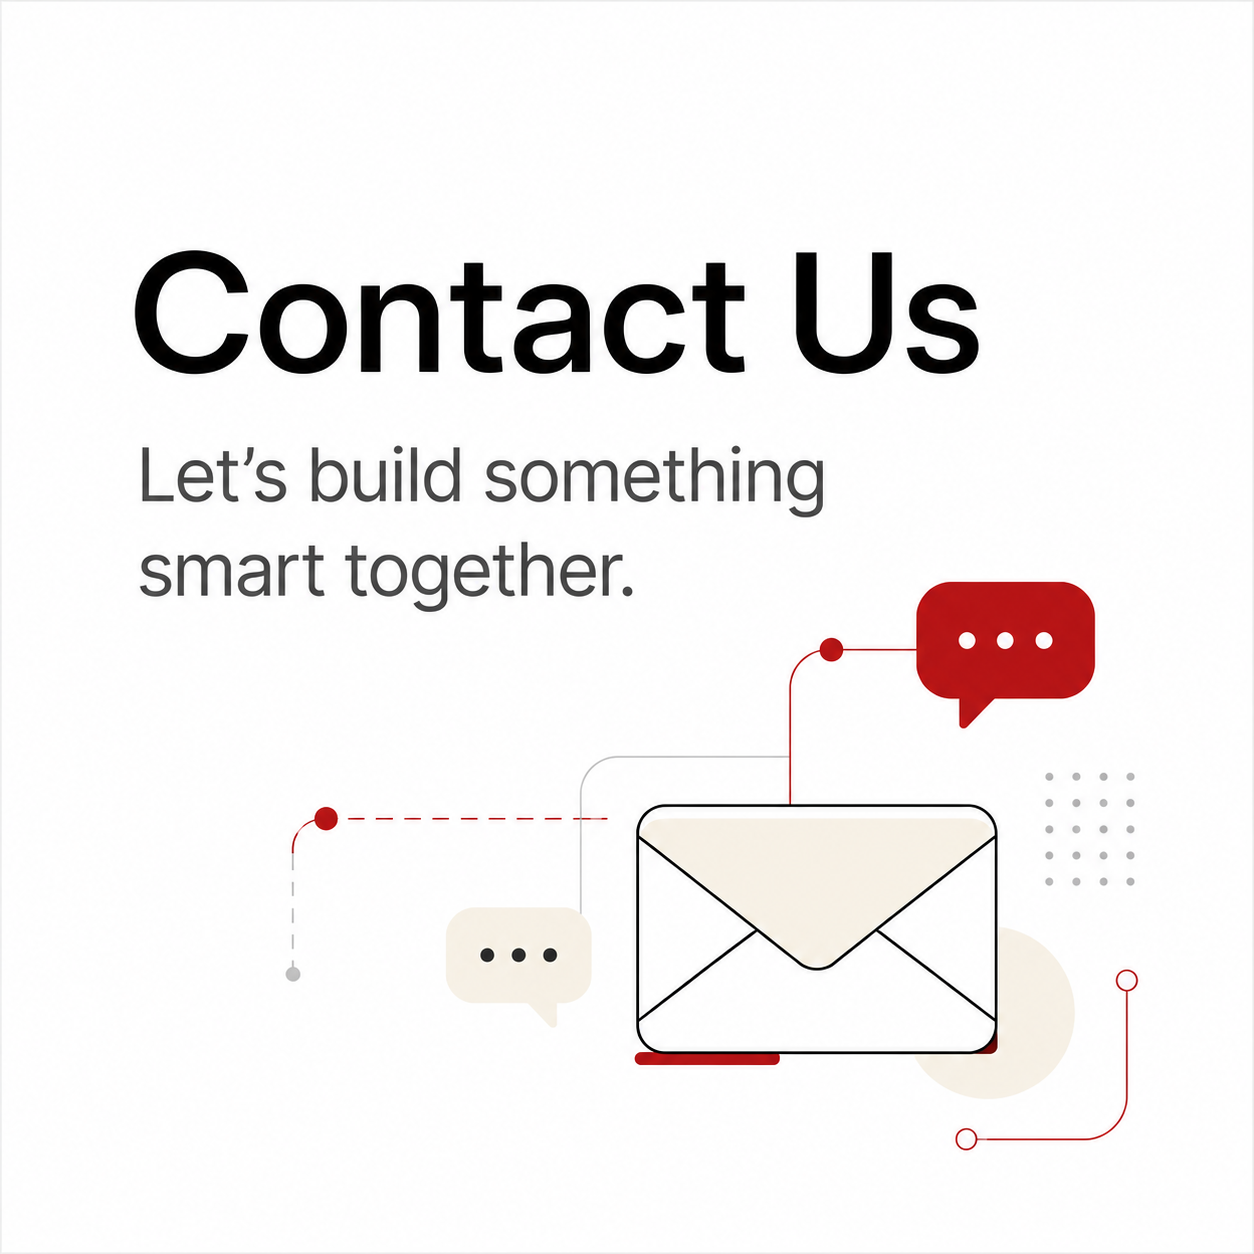
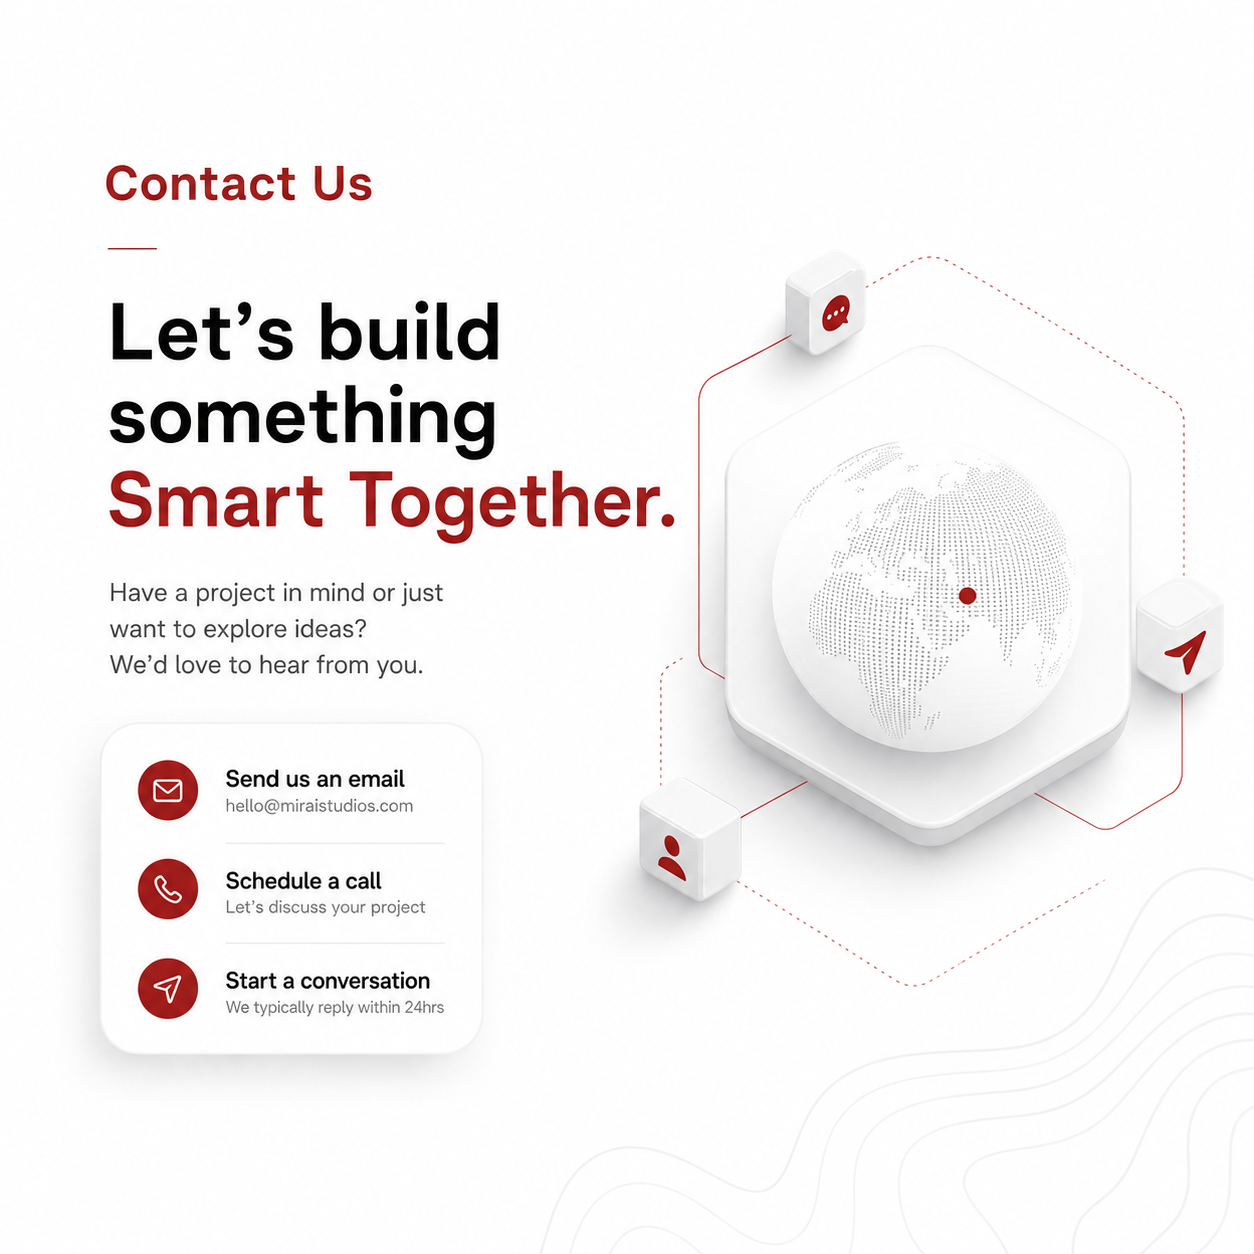
Polish homepage UI: hero fade, products mobile, and contact art.
Smooth the hero voxel seam, tighten services/products/testimonials presentation, rename the digital-twin caption, and refresh the contact illustration.

diff --git a/src/components/sections/Projects.tsx b/src/components/sections/Projects.tsx
@@ -67,11 +67,12 @@ function ProductFeatureCarousel({ products }: { products: CaseStudy[] }) {
 
   return (
     <div
-      className="grid items-center gap-8 lg:grid-cols-[minmax(0,0.9fr)_minmax(0,1.35fr)] lg:gap-10 xl:gap-14"
+      className="grid items-stretch gap-5 sm:gap-6 lg:grid-cols-[auto_minmax(0,1fr)] lg:items-center lg:gap-8 xl:gap-10"
       onMouseEnter={() => setPaused(true)}
       onMouseLeave={() => setPaused(false)}
     >
-      <div className="flex w-full max-w-md flex-col justify-center gap-3">
+      {/* Mobile: horizontal chip row · Desktop: compact vertical list */}
+      <div className="-mx-1 flex gap-2 overflow-x-auto px-1 pb-1 [scrollbar-width:none] lg:mx-0 lg:flex-col lg:overflow-visible lg:pb-0 [&::-webkit-scrollbar]:hidden">
         {products.map((product, index) => {
           const isActive = index === currentIndex;
           const Icon = PRODUCT_ICONS[product.slug] ?? Sparkles;
@@ -83,7 +84,7 @@ function ProductFeatureCarousel({ products }: { products: CaseStudy[] }) {
               onClick={() => goTo(index)}
               aria-pressed={isActive}
               className={cn(
-                "relative flex w-fit items-center gap-3 rounded-full border px-5 py-3.5 text-left transition-colors duration-300 sm:gap-4 sm:px-7 sm:py-4",
+                "relative flex shrink-0 items-center gap-2.5 rounded-full border px-4 py-3 text-left transition-colors duration-300 sm:gap-3 sm:px-5 sm:py-3.5",
                 isActive
                   ? "border-white bg-white text-accent shadow-soft"
                   : "border-white/20 bg-transparent text-white/65 hover:border-white/40 hover:text-white",
@@ -93,13 +94,15 @@ function ProductFeatureCarousel({ products }: { products: CaseStudy[] }) {
                 className={cn("h-4 w-4 shrink-0", isActive ? "text-accent" : "text-white/45")}
                 aria-hidden
               />
-              <span className="text-sm font-medium tracking-snug sm:text-base">{productLabel(product)}</span>
+              <span className="whitespace-nowrap text-sm font-medium tracking-snug sm:text-base">
+                {productLabel(product)}
+              </span>
             </button>
           );
         })}
       </div>
 
-      <div className="relative mx-auto aspect-[16/11] w-full max-w-3xl sm:aspect-[16/10]">
+      <div className="relative mx-auto aspect-[4/5] w-full max-w-none sm:aspect-[16/11] lg:aspect-[16/10] lg:max-w-none">
         {products.map((product, index) => {
           const status = getCardStatus(index);
           const isActive = status === "active";
@@ -111,15 +114,15 @@ function ProductFeatureCarousel({ products }: { products: CaseStudy[] }) {
               key={product.slug}
               initial={false}
               animate={{
-                x: isActive ? 0 : isPrev ? -72 : isNext ? 72 : 0,
-                scale: isActive ? 1 : isPrev || isNext ? 0.88 : 0.72,
-                opacity: isActive ? 1 : isPrev || isNext ? 0.45 : 0,
-                rotate: isPrev ? -2.5 : isNext ? 2.5 : 0,
+                x: isActive ? 0 : isPrev ? -40 : isNext ? 40 : 0,
+                scale: isActive ? 1 : isPrev || isNext ? 0.92 : 0.82,
+                opacity: isActive ? 1 : isPrev || isNext ? 0.35 : 0,
+                rotate: isPrev ? -1.5 : isNext ? 1.5 : 0,
                 zIndex: isActive ? 20 : isPrev || isNext ? 10 : 0,
                 pointerEvents: isActive ? "auto" : "none",
               }}
               transition={{ type: "spring", stiffness: 260, damping: 25, mass: 0.8 }}
-              className="absolute inset-0 overflow-hidden rounded-[1.75rem] border-[6px] border-[#121212] bg-[#121212] shadow-card sm:rounded-[2.25rem] sm:border-8"
+              className="absolute inset-0 overflow-hidden rounded-[1.5rem] border-[5px] border-[#0a0a0a] bg-[#121212] shadow-card sm:rounded-[2rem] sm:border-[6px] lg:rounded-[2.25rem] lg:border-8"
             >
               <CaseStudyVisual
                 image={product.cardImage}
@@ -130,14 +133,13 @@ function ProductFeatureCarousel({ products }: { products: CaseStudy[] }) {
                 )}
               />
 
-              {/* Readability scrims - top for CTAs, bottom for copy */}
               <div
                 aria-hidden
                 className="pointer-events-none absolute inset-0 bg-gradient-to-b from-black/70 via-black/15 to-transparent"
               />
               <div
                 aria-hidden
-                className="pointer-events-none absolute inset-x-0 bottom-0 h-[58%] bg-gradient-to-t from-black via-black/80 to-transparent"
+                className="pointer-events-none absolute inset-x-0 bottom-0 h-[62%] bg-gradient-to-t from-black via-black/85 to-transparent"
               />
               <div
                 aria-hidden
@@ -150,15 +152,15 @@ function ProductFeatureCarousel({ products }: { products: CaseStudy[] }) {
                     initial={{ opacity: 0, y: 18 }}
                     animate={{ opacity: 1, y: 0 }}
                     exit={{ opacity: 0, y: 10 }}
-                    className="pointer-events-none absolute inset-x-0 bottom-0 flex flex-col justify-end p-6 pt-24 sm:p-8 sm:pt-28"
+                    className="pointer-events-none absolute inset-x-0 bottom-0 flex flex-col justify-end p-4 pt-20 sm:p-7 sm:pt-24 lg:p-8 lg:pt-28"
                   >
-                    <p className="text-[11px] font-medium uppercase tracking-[0.16em] text-white/70">
+                    <p className="text-[10px] font-medium uppercase tracking-[0.16em] text-white/70 sm:text-[11px]">
                       {String(index + 1).padStart(2, "0")} · {product.eyebrow}
                     </p>
-                    <h3 className="mt-2 max-w-xl text-balance text-xl font-medium leading-snug tracking-snug text-white drop-shadow-sm sm:text-2xl">
+                    <h3 className="mt-1.5 max-w-xl text-balance text-lg font-medium leading-snug tracking-snug text-white drop-shadow-sm sm:mt-2 sm:text-xl lg:text-2xl">
                       {product.cardTitle}
                     </h3>
-                    <p className="mt-2 max-w-lg text-pretty text-sm leading-relaxed text-white/90 sm:text-base">
+                    <p className="mt-1.5 line-clamp-3 max-w-lg text-pretty text-sm leading-relaxed text-white/90 sm:mt-2 sm:line-clamp-none sm:text-base">
                       {product.summary}
                     </p>
                   </m.div>
@@ -166,21 +168,21 @@ function ProductFeatureCarousel({ products }: { products: CaseStudy[] }) {
               </AnimatePresence>
 
               {isActive ? (
-                <div className="pointer-events-auto absolute left-4 right-4 top-4 flex flex-wrap items-center justify-between gap-2 sm:left-6 sm:right-6 sm:top-6">
-                  <span className="inline-flex items-center gap-2 rounded-full bg-black/45 px-3 py-1.5 text-xs font-medium text-white backdrop-blur-md">
+                <div className="pointer-events-auto absolute left-3 right-3 top-3 flex flex-wrap items-center justify-between gap-2 sm:left-5 sm:right-5 sm:top-5 lg:left-6 lg:right-6 lg:top-6">
+                  <span className="inline-flex items-center gap-2 rounded-full bg-black/45 px-2.5 py-1 text-[11px] font-medium text-white backdrop-blur-md sm:px-3 sm:py-1.5 sm:text-xs">
                     <span className="relative flex h-2 w-2">
                       <span className="absolute inline-flex h-full w-full animate-ping rounded-full bg-accent opacity-60" />
                       <span className="relative inline-flex h-2 w-2 rounded-full bg-accent" />
                     </span>
                     Live product
                   </span>
-                  <div className="flex flex-wrap gap-2">
+                  <div className="flex flex-wrap gap-1.5 sm:gap-2">
                     {product.demoUrl ? (
                       <a
                         href={product.demoUrl}
                         target="_blank"
                         rel="noopener noreferrer"
-                        className="inline-flex items-center gap-1.5 rounded-full bg-white px-3.5 py-2 text-xs font-medium text-ink shadow-soft transition-opacity hover:opacity-90 sm:text-sm"
+                        className="inline-flex items-center gap-1.5 rounded-full bg-white px-3 py-1.5 text-[11px] font-medium text-ink shadow-soft transition-opacity hover:opacity-90 sm:px-3.5 sm:py-2 sm:text-sm"
                         onClick={(event) => event.stopPropagation()}
                       >
                         {product.demoLabel ?? "Try demo"}
@@ -189,7 +191,7 @@ function ProductFeatureCarousel({ products }: { products: CaseStudy[] }) {
                     ) : null}
                     <a
                       href={getCaseStudyUrl(product.slug)}
-                      className="inline-flex items-center gap-1.5 rounded-full border border-white/25 bg-black/45 px-3.5 py-2 text-xs font-medium text-white backdrop-blur-md transition-colors hover:bg-black/60 sm:text-sm"
+                      className="inline-flex items-center gap-1.5 rounded-full border border-white/25 bg-black/45 px-3 py-1.5 text-[11px] font-medium text-white backdrop-blur-md transition-colors hover:bg-black/60 sm:px-3.5 sm:py-2 sm:text-sm"
                     >
                       Case study
                       <ArrowUpRight className="h-3.5 w-3.5" />
@@ -215,7 +217,7 @@ export function Projects() {
   return (
     <Section className="py-8 sm:py-10 lg:py-12">
       <Container>
-        <div className="mb-8 max-w-2xl lg:mb-10">
+        <div className="mb-6 max-w-2xl sm:mb-8 lg:mb-10">
           <p className="eyebrow">Our products</p>
           <h2 className="display mt-3 text-[clamp(2rem,3.5vw,3.25rem)] leading-[1.05]">
             Products we build and ship
@@ -225,7 +227,7 @@ export function Projects() {
           </p>
         </div>
 
-        <div className="overflow-hidden rounded-[28px] bg-ink px-5 py-8 sm:px-8 sm:py-10 lg:rounded-[36px] lg:px-10 lg:py-12">
+        <div className="overflow-hidden rounded-[24px] bg-ink px-4 py-6 sm:rounded-[28px] sm:px-6 sm:py-8 lg:rounded-[36px] lg:px-8 lg:py-10">
           <ProductFeatureCarousel products={featuredProjects} />
         </div>
       </Container>

diff --git a/src/components/sections/Testimonials.tsx b/src/components/sections/Testimonials.tsx
@@ -18,19 +18,20 @@ function Stars() {
   return (
     <div className="flex items-center gap-[2px]" aria-label="5 out of 5 stars">
       {Array.from({ length: 5 }).map((_, i) => (
-        <Star
-          key={i}
-          className="size-4 fill-black text-black sm:size-5"
-          strokeWidth={0}
-        />
+        <Star key={i} className="size-4 fill-black text-black sm:size-5" strokeWidth={0} />
       ))}
     </div>
   );
 }
 
-function QuoteCard({ t }: { t: Testimonial }) {
+function QuoteCard({ t, className }: { t: Testimonial; className?: string }) {
   return (
-    <figure className="flex h-full w-full flex-col justify-between overflow-hidden rounded-[22px] border border-black/[0.08] bg-[#f5f3f1] p-6 sm:p-7">
+    <figure
+      className={cn(
+        "flex h-full w-full flex-col justify-between overflow-hidden rounded-[22px] border border-black/[0.08] bg-[#f5f3f1] p-6 shadow-[0_18px_50px_-28px_rgba(0,0,0,0.35)] sm:p-7",
+        className,
+      )}
+    >
       <div className="flex min-h-0 flex-col gap-5">
         <Stars />
         <blockquote className="overflow-hidden text-pretty text-lg leading-7 tracking-[-0.01em] text-black sm:text-2xl sm:leading-8">
@@ -50,12 +51,13 @@ function QuoteCard({ t }: { t: Testimonial }) {
 }
 
 function BrandMark({ t }: { t: Testimonial }) {
-  const logoSize = {
-    cero: "h-7 w-7",
-    enorta: "h-7 w-7",
-    lillyai: "h-7 w-[80px]",
-    thyssenkrupp: "h-7 max-w-32",
-  }[t.id] ?? "h-7 max-w-32";
+  const logoSize =
+    {
+      cero: "h-7 w-7",
+      enorta: "h-7 w-7",
+      lillyai: "h-7 w-[80px]",
+      thyssenkrupp: "h-7 max-w-32",
+    }[t.id] ?? "h-7 max-w-32";
 
   return (
     <span className="flex h-8 w-36 shrink-0 items-center justify-start sm:justify-end">
@@ -93,6 +95,8 @@ export function Testimonials() {
   }, [paused, testimonials.length]);
 
   const current = testimonials[active];
+  const behindOne = testimonials[(active + 1) % testimonials.length];
+  const behindTwo = testimonials[(active + 2) % testimonials.length];
 
   return (
     <Section id="testimonials">
@@ -115,21 +119,37 @@ export function Testimonials() {
           className="mx-auto mt-8 max-w-3xl lg:mt-10"
         >
           <div
-            className="relative h-[430px] sm:h-[360px] lg:h-[340px]"
+            className="relative h-[470px] sm:h-[400px] lg:h-[380px]"
             onPointerEnter={() => setPaused(true)}
             onPointerLeave={() => setPaused(false)}
             onFocus={() => setPaused(true)}
             onBlur={() => setPaused(false)}
           >
+            {/* Stacked deck cards behind the active quote */}
+            {behindTwo && testimonials.length > 2 ? (
+              <div
+                aria-hidden
+                className="absolute inset-x-5 bottom-2 top-8 rounded-[22px] border border-black/[0.06] bg-[#ebe8e4] shadow-soft sm:inset-x-8"
+                style={{ transform: "translateY(18px) scale(0.94) rotate(-1.5deg)" }}
+              />
+            ) : null}
+            {behindOne && testimonials.length > 1 ? (
+              <div
+                aria-hidden
+                className="absolute inset-x-3 bottom-1 top-4 rounded-[22px] border border-black/[0.07] bg-[#f0eeeb] shadow-soft sm:inset-x-5"
+                style={{ transform: "translateY(10px) scale(0.97) rotate(1.25deg)" }}
+              />
+            ) : null}
+
             <AnimatePresence initial={false}>
               {current ? (
                 <m.div
                   key={current.id}
-                  initial={{ opacity: 0, y: 18 }}
-                  animate={{ opacity: 1, y: 0 }}
-                  exit={{ opacity: 0, y: -18 }}
+                  initial={{ opacity: 0, y: 22, rotate: -0.6, scale: 0.985 }}
+                  animate={{ opacity: 1, y: 0, rotate: 0, scale: 1 }}
+                  exit={{ opacity: 0, y: -16, rotate: 0.8, scale: 0.98 }}
                   transition={{ duration: 0.55, ease: EASE_OUT_EXPO }}
-                  className="absolute inset-0"
+                  className="absolute inset-0 z-10"
                 >
                   <QuoteCard t={current} />
                 </m.div>

diff --git a/src/components/sections/Hero.tsx b/src/components/sections/Hero.tsx
@@ -12,18 +12,30 @@ export function Hero() {
     <section id="top" className="relative overflow-hidden pb-16 pt-14 sm:pb-20 sm:pt-16 lg:pb-24 lg:pt-20">
       {/* Interactive Mirai-mark ASCII / voxel field - right side on desktop */}
       <div className="pointer-events-none absolute inset-0">
-        <div className="absolute inset-y-0 right-0 w-full max-lg:opacity-40 lg:left-[48%] lg:w-auto lg:opacity-100">
+        <div
+          className="absolute inset-y-0 right-0 w-full max-lg:opacity-40 lg:left-[42%] lg:w-auto lg:opacity-100"
+          style={{
+            WebkitMaskImage:
+              "linear-gradient(90deg, transparent 0%, transparent 6%, rgba(0,0,0,0.35) 22%, rgba(0,0,0,0.75) 38%, #000 58%)",
+            maskImage:
+              "linear-gradient(90deg, transparent 0%, transparent 6%, rgba(0,0,0,0.35) 22%, rgba(0,0,0,0.75) 38%, #000 58%)",
+          }}
+        >
           <div className="pointer-events-auto h-full w-full">
             <AsciiVoxelArt src="/images/mirai-mark-ascii.png" className="h-full w-full" />
           </div>
         </div>
         <div
           aria-hidden
-          className="pointer-events-none absolute inset-0 bg-gradient-to-r from-background from-35% via-background/95 via-55% to-background/20 lg:to-transparent"
+          className="pointer-events-none absolute inset-0"
+          style={{
+            background:
+              "linear-gradient(90deg, hsl(var(--background)) 0%, hsl(var(--background)) 34%, hsl(var(--background) / 0.88) 48%, hsl(var(--background) / 0.45) 62%, hsl(var(--background) / 0.12) 78%, transparent 100%)",
+          }}
         />
         <div
           aria-hidden
-          className="pointer-events-none absolute inset-x-0 bottom-0 h-20 bg-gradient-to-t from-background to-transparent"
+          className="pointer-events-none absolute inset-x-0 bottom-0 h-28 bg-gradient-to-t from-background via-background/85 to-transparent"
         />
       </div>
 

diff --git a/src/components/sections/Services.tsx b/src/components/sections/Services.tsx
@@ -21,8 +21,8 @@ function isSculptureId(id: string): id is ServiceSculptureId {
   return SERVICES.some((service) => service.id === id);
 }
 
-function formatIndex(number: string, total: number) {
-  return `${number} / ${String(total).padStart(2, "0")}`;
+function formatIndex(number: string) {
+  return number;
 }
 
 function CapabilityChips({ capabilities, className }: { capabilities: string[]; className?: string }) {
@@ -93,7 +93,6 @@ function ServiceSelector({
   labelledBy: string;
 }) {
   const listRef = useRef<HTMLDivElement>(null);
-  const total = services.length;
 
   const focusTab = (index: number) => {
     const buttons = listRef.current?.querySelectorAll<HTMLButtonElement>('[role="tab"]');
@@ -182,7 +181,7 @@ function ServiceSelector({
                 selected ? "text-foreground/70" : "text-foreground/35",
               )}
             >
-              {formatIndex(service.number, total)}
+              {formatIndex(service.number)}
             </span>
             <span
               className={cn(
@@ -240,8 +239,6 @@ function MobileServiceAccordion({
   onSelect: (id: string) => void;
   voxel: ReactNode;
 }) {
-  const total = services.length;
-
   return (
     <ul className="border-t border-black/[0.08]">
       {services.map((service) => {
@@ -261,7 +258,7 @@ function MobileServiceAccordion({
                 className="flex min-h-14 w-full items-center gap-3 py-4 text-left focus-visible:outline-none focus-visible:ring-2 focus-visible:ring-ring focus-visible:ring-offset-2"
               >
                 <span className="shrink-0 font-mono text-[11px] tracking-[0.08em] text-foreground/40">
-                  {formatIndex(service.number, total)}
+                  {formatIndex(service.number)}
                 </span>
                 <span
                   className={cn(

diff --git a/src/components/sections/Contact.tsx b/src/components/sections/Contact.tsx
@@ -393,13 +393,13 @@ export function Contact() {
             </AnimatePresence>
           </div>
 
-          <div className="relative hidden h-[520px] overflow-hidden rounded-2xl bg-[#f5f3f1] p-4 lg:block lg:h-[680px]">
+          <div className="relative hidden h-[520px] overflow-hidden rounded-2xl bg-[#f5f3f1] lg:block lg:h-[680px]">
             <Image
               src="/images/contact-us.png"
               alt="Mirai Studios contact illustration"
               fill
               sizes="50vw"
-              className="object-contain"
+              className="object-cover"
             />
           </div>
         </div>

diff --git a/src/components/hero/AsciiVoxelArt.tsx b/src/components/hero/AsciiVoxelArt.tsx
@@ -43,8 +43,8 @@ export interface AsciiVoxelConfig {
 export const MIRAI_ASCII_CONFIG: AsciiVoxelConfig = {
   renderMode: "voxel",
   bgMode: "solid",
-  bgColor: "#f5f3f1",
-  bgOpacity: 96,
+  bgColor: "#ffffff",
+  bgOpacity: 100,
   cellSize: 18,
   coverage: 100,
   invert: false,

diff --git a/src/components/voxel/definitions/catalog.ts b/src/components/voxel/definitions/catalog.ts
@@ -30,7 +30,7 @@ export const SERVICE_SCULPTURES: ServiceSculptureMeta[] = [
   {
     id: "digital-twins",
     label: "Digital Twins & Real-Time 3D",
-    objectName: "Digital Twin Tower",
+    objectName: "Ops Tower",
     create: createDigitalTwinsDefinition,
   },
   {
